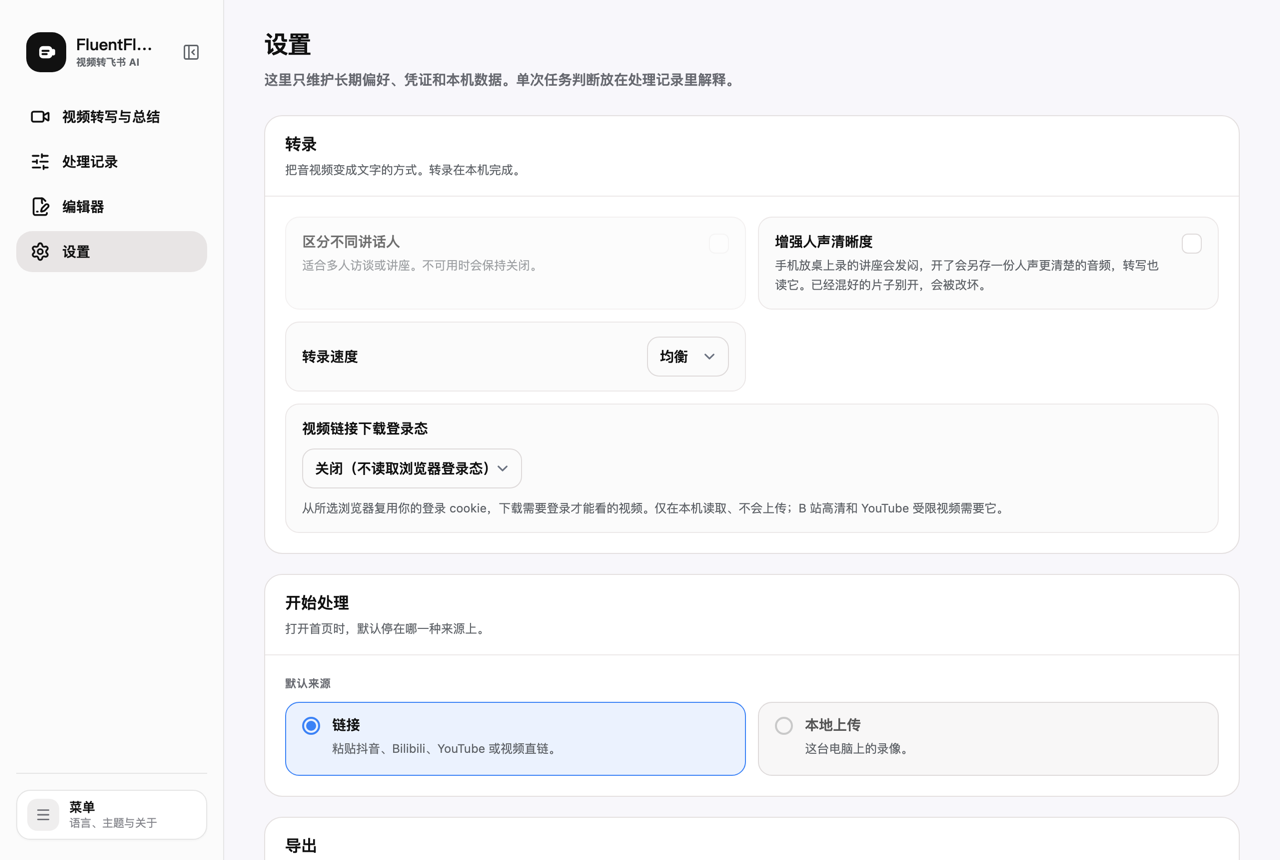
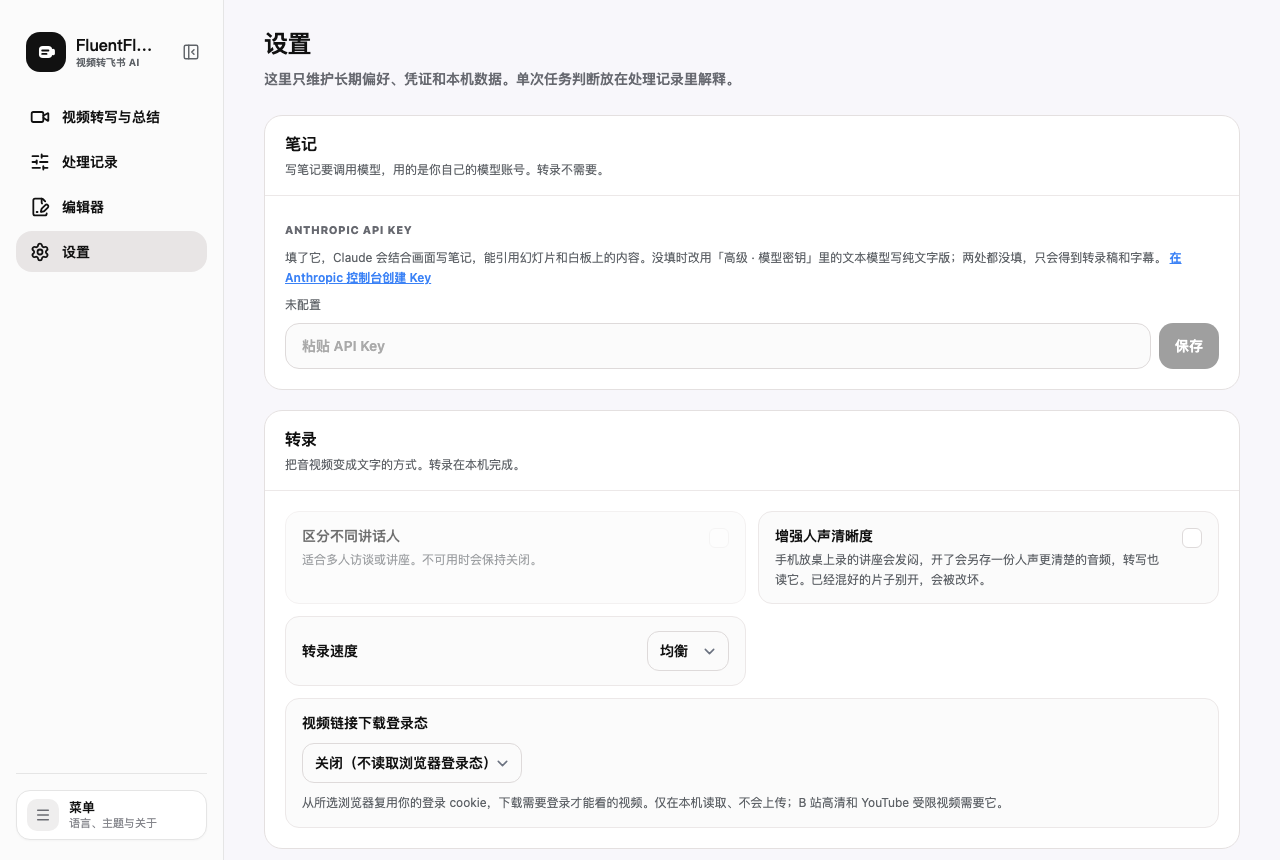
let a first-time user find the note key and get unstuck from the README

diff --git a/frontend/src/routes/settings.jsx b/frontend/src/routes/settings.jsx
@@ -1,6 +1,7 @@
 import {Section} from '../components/settingsPrimitives.jsx';
 import {
     AdvancedKeysFold,
+    AnthropicKeyField,
     AutoExportRow,
     AutoIllustrateRow,
     ClearHistoryDialog,
@@ -41,6 +42,19 @@ const Settings = () => {
     return (
         <SettingsPageShell overlays={<ClearHistoryDialog state={state}/>}>
             <Section
+                id="notes"
+                title={lang === 'zh' ? '笔记' : 'Notes'}
+                description={lang === 'zh'
+                    ? '写笔记要调用模型，用的是你自己的模型账号。转录不需要。'
+                    : 'Writing a note calls a model on your own account. Transcription does not.'}
+            >
+                <div className="grid gap-3 p-5">
+                    <AnthropicKeyField state={state}/>
+                    {!uploadWritesItsOwnNote && <AutoIllustrateRow state={state}/>}
+                </div>
+            </Section>
+
+            <Section
                 id="transcription"
                 title={lang === 'zh' ? '转录' : 'Transcription'}
                 description={lang === 'zh'
@@ -63,17 +77,6 @@ const Settings = () => {
                 <DefaultSourceRow state={state}/>
             </Section>
 
-            {!uploadWritesItsOwnNote && (
-                <Section
-                    id="notes"
-                    title={lang === 'zh' ? '笔记' : 'Notes'}
-                    description={lang === 'zh' ? 'AI 生成笔记时的偏好。' : 'Preferences for AI-generated notes.'}
-                >
-                    <div className="p-5">
-                        <AutoIllustrateRow state={state}/>
-                    </div>
-                </Section>
-            )}
 
             <Section id="export" title={lang === 'zh' ? '导出' : 'Export'} description={lang === 'zh' ? '把笔记同步到飞书云文档。' : 'Sync notes to Feishu cloud docs.'}>
                 <div className="grid gap-3 p-5 md:grid-cols-2">
@@ -90,9 +93,9 @@ const Settings = () => {
             <AdvancedKeysFold
                 description={uploadWritesItsOwnNote
                     ? (lang === 'zh'
-                        ? '文本模型和它的密钥。上传后自动生成的笔记不经过这里——那份由本机登录的 Claude 写。这里只管编辑器里手动「重生笔记」和英文素材的翻译。'
-                        : 'The text model and its key. The note an upload writes for itself does not come from here — that one is written by the Claude login on this machine. This steers the editor’s manual rewrite and the translation of English material.')
-                    : (lang === 'zh' ? '服务商、模型和 API 密钥，进阶才需要展开。普通用户可忽略。' : 'Providers, models, and API keys. Open only if you know you need it.')}
+                        ? '文本模型和它的密钥。没填 Anthropic API Key 时，上传后的笔记由这里的模型写成纯文字版；编辑器里手动「重生笔记」和英文素材的翻译也用它。'
+                        : 'The text model and its key. Without an Anthropic API Key, the note an upload writes comes from this model as text only; the editor’s manual rewrite and the translation of English material use it too.')
+                    : (lang === 'zh' ? '写笔记用的文本模型和它的密钥。默认 DeepSeek，Key 在 platform.deepseek.com 创建。' : 'The text model that writes notes, and its key. DeepSeek by default; create a key at platform.deepseek.com.')}
             >
                 <TextModelKeyRows
                     state={state}

diff --git a/frontend/src/routes/media-text.jsx b/frontend/src/routes/media-text.jsx
@@ -77,6 +77,7 @@ const MediaText = ({hosted = null}) => {
         processLocalFolder,
         locateDroppedFile,
         processLocalPaths,
+        getCredentialsStatus,
     } = useApi();
     const {loadSettings} = useSettings();
     const navigate = useNavigate();
@@ -98,6 +99,18 @@ const MediaText = ({hosted = null}) => {
     const abortRef = useRef(null);
 
     useEffect(() => { checkHealth(); }, []);
+    // A fresh install has no model key, and nothing else on this page says so:
+    // the first job would finish with a transcript and no note, and the person
+    // would only then learn there was a setting to fill in. Said once, here,
+    // before they spend a job finding out.
+    const [noNoteKey, setNoNoteKey] = useState(false);
+    useEffect(() => {
+        getCredentialsStatus?.().then((status) => {
+            if (!status || status.visual_note_available) return;
+            const textKeys = ['deepseek', 'openai', 'dashscope', 'qwen'];
+            setNoNoteKey(!textKeys.some((key) => status[`${key}_api_key_configured`]));
+        }).catch(() => {});
+    }, []);
     useEffect(() => {
         if (mode === 'subtitle') setSourceMode('upload');
     }, [mode]);
@@ -614,6 +627,15 @@ const MediaText = ({hosted = null}) => {
             <section className="mx-auto h-dvh max-w-[1280px] overflow-y-auto px-8 py-9 hide-scrollbar">
                 <input ref={fileInputRef} type="file" multiple accept="video/*,audio/*,.mp4,.mov,.avi,.mkv,.webm,.mp3,.wav,.flac,.aac,.ogg,.m4a,.wma,.opus" onChange={handleMediaInput} className="hidden"/>
                 <input ref={subtitleInputRef} type="file" accept=".srt,.vtt,.txt,.md,text/plain,text/markdown" onChange={handleSubtitleSelect} className="hidden"/>
+
+                {noNoteKey && (
+                    <div className="mb-5 flex flex-wrap items-center justify-between gap-3 rounded-[16px] border border-[#ecd9a8] bg-[#fff8e6] px-4 py-3 text-sm text-[#5c4a1a] dark:border-[#6b5a2a] dark:bg-[#2a2415] dark:text-[#f0dfb0]">
+                        <span>{lang === 'zh'
+                            ? '还没有填写模型 Key。现在处理只会得到转录稿和字幕，没有笔记。'
+                            : 'No model key yet. Jobs will produce a transcript and subtitles, but no note.'}</span>
+                        <Link to="/settings" className="shrink-0 font-extrabold underline">{lang === 'zh' ? '去设置填写' : 'Add one in Settings'}</Link>
+                    </div>
+                )}
 
                 <div className="mb-7 flex flex-wrap items-center justify-center gap-3">
                     <span className="text-sm font-bold text-[#8a8a8a] dark:text-white/40">{lang === 'zh' ? '目前支持：' : 'Supported:'}</span>

diff --git a/frontend/src/components/settingsRows.jsx b/frontend/src/components/settingsRows.jsx
@@ -401,6 +401,38 @@ export const DashscopeKeyField = ({state, description}) => {
     );
 };
 
+// The key the note written after an upload uses by default. Not in the advanced
+// fold: without it (or a text-model key) the person gets a transcript and no
+// note, so it is the one key a first-time user has to find.
+export const AnthropicKeyField = ({state}) => {
+    const {lang} = useI18n();
+    const {
+        credentialStatus, credentialConfigured, secretDraft, setSecretDraft, saveSecret,
+        secretSaving, secretFeedback, secretRetentionText, secretInputPlaceholder,
+    } = state;
+    const configured = credentialConfigured(credentialStatus, 'anthropic_api_key');
+    return (
+        <div className="space-y-2">
+            <label className={fieldLabelClass}>Anthropic API Key</label>
+            <p className="text-xs leading-relaxed text-on-surface-variant">
+                {lang === 'zh'
+                    ? '填了它，Claude 会结合画面写笔记，能引用幻灯片和白板上的内容。没填时改用「高级 · 模型密钥」里的文本模型写纯文字版；两处都没填，只会得到转录稿和字幕。'
+                    : 'With this key, Claude writes the note while looking at the video frames, so it can quote slides and whiteboards. Without it the text model under “Advanced · Model keys” writes a text-only note; with neither, you get the transcript and subtitles only.'}
+                {' '}
+                <a className="font-semibold text-primary underline" href="https://console.anthropic.com/settings/keys" target="_blank" rel="noreferrer">
+                    {lang === 'zh' ? '在 Anthropic 控制台创建 Key' : 'Create a key in the Anthropic Console'}
+                </a>
+            </p>
+            <p className="text-xs leading-relaxed text-on-surface-variant">{secretRetentionText(configured)}</p>
+            <div className="flex gap-2">
+                <input className={inputClass} placeholder={secretInputPlaceholder(configured)} type="password" value={secretDraft.anthropic_api_key || ''} onChange={e=>setSecretDraft(d=>({...d, anthropic_api_key: e.target.value}))}/>
+                <button type="button" disabled={secretSaving || !secretDraft.anthropic_api_key} onClick={()=>saveSecret('anthropic_api_key')} className={saveButtonClass}>{lang === 'zh' ? '保存' : 'Save'}</button>
+            </div>
+            <SecretFeedback feedback={secretFeedback} keyName="anthropic_api_key" lang={lang}/>
+        </div>
+    );
+};
+
 export const FeishuAppCredentialRows = ({state}) => {
     const {lang} = useI18n();
     const {credentialStatus, secretDraft, setSecretDraft, saveSecret, secretSaving, secretFeedback, secretStatusText} = state;

diff --git a/frontend/src/components/settingsPrimitives.jsx b/frontend/src/components/settingsPrimitives.jsx
@@ -34,7 +34,7 @@ export const SettingCheckbox = ({id, checked, disabled, onChange}) => (
 
 export const inputClass = 'w-full rounded-[14px] border border-[#dedada] bg-[#fbfbfb] px-4 py-3 text-sm font-semibold text-[#111111] outline-none transition placeholder:text-[#aaa] focus:border-[#111111] focus:bg-white dark:border-white/[0.12] dark:bg-white/[0.06] dark:text-white dark:placeholder:text-white/30 dark:focus:border-white/40';
 export const fieldLabelClass = 'text-[11px] font-extrabold uppercase tracking-wider text-[#676970] dark:text-white/50';
-export const saveButtonClass = 'rounded-[14px] bg-[#111111] px-4 py-3 text-sm font-extrabold text-white transition hover:bg-[#2a2a2a] active:translate-y-px disabled:cursor-not-allowed disabled:opacity-40 dark:bg-white dark:text-[#111111] dark:hover:bg-white/[0.88]';
+export const saveButtonClass = 'shrink-0 whitespace-nowrap rounded-[14px] bg-[#111111] px-4 py-3 text-sm font-extrabold text-white transition hover:bg-[#2a2a2a] active:translate-y-px disabled:cursor-not-allowed disabled:opacity-40 dark:bg-white dark:text-[#111111] dark:hover:bg-white/[0.88]';
 export const cellBase = 'rounded-[14px] border border-[#ece8e8] bg-[#fbfbfb] px-4 py-3.5 dark:border-white/[0.1] dark:bg-white/[0.02]';
 
 const radioClass = (active) => [

diff --git a/tests/test_local_system_router.py b/tests/test_local_system_router.py
@@ -49,3 +49,20 @@ def test_local_credentials_accept_only_user_owned_secrets(monkeypatch, tmp_path)
     assert response.json()["deepseek_api_key_configured"] is True
     assert "hosted_api_key_configured" not in response.json()
     assert "user-key" not in str(response.json())
+
+
+def test_credential_status_says_whether_the_visual_note_can_run(monkeypatch, tmp_path):
+    # The start page warns "you will get no note" from this flag, so it has to
+    # follow the key saved on the settings page, not only the environment.
+    monkeypatch.setenv("FLUENTFLOW_CONFIG_PATH", str(tmp_path / "config.json"))
+    monkeypatch.delenv("ANTHROPIC_API_KEY", raising=False)
+    # Pinned to the key channel: a checkout whose .env opts into the Claude Code
+    # subscription would otherwise report the note as available with no key.
+    monkeypatch.setenv("FLUENTFLOW_VISUAL_NOTE_CHANNEL", "api_key")
+    client = _client()
+
+    assert client.get("/credentials/status").json()["visual_note_available"] is False
+
+    client.post("/credentials", json={"anthropic_api_key": "sk-ant-test"})
+
+    assert client.get("/credentials/status").json()["visual_note_available"] is True

diff --git a/tests/test_visual_note_job.py b/tests/test_visual_note_job.py
@@ -503,7 +503,7 @@ def test_with_no_key_it_refuses_and_asks_for_the_key(job_store, monkeypatch, tmp
 
     assert described["eligible"] is False
     assert described["credential_configured"] is False
-    assert "ANTHROPIC_API_KEY" in described["reason"]
+    assert "Anthropic API Key" in described["reason"]
     assert "subscription" not in described["reason"]
 
 
@@ -517,7 +517,7 @@ def test_a_machine_with_claude_code_is_told_about_the_subscription_too(job_store
     described = vn.describe(TASK, job_store, api_key=None)
 
     assert described["eligible"] is False
-    assert "ANTHROPIC_API_KEY" in described["reason"]
+    assert "Anthropic API Key" in described["reason"]
     assert "FLUENTFLOW_VISUAL_NOTE_CHANNEL=subscription" in described["reason"]
 
 
@@ -527,7 +527,7 @@ def test_forcing_the_key_channel_still_names_the_key(job_store, monkeypatch):
     described = vn.describe(TASK, job_store, api_key=None)
 
     assert described["eligible"] is False
-    assert "ANTHROPIC_API_KEY" in described["reason"]
+    assert "Anthropic API Key" in described["reason"]
 
 
 def test_other_providers_keys_do_not_stand_in_for_a_claude_one(job_store, monkeypatch):

diff --git a/backend/core/claude_vision.py b/backend/core/claude_vision.py
@@ -420,16 +420,12 @@ def unavailable_reason(api_key: str | None = None) -> str | None:
     if not sdk_available():
         return (
             "本机还没有安装调用 Claude 所需的组件。在项目目录运行 "
-            "`./venv/bin/pip install -r requirements.txt` 后重启服务即可。"
+            "`.venv/bin/pip install -r requirements-local.txt` 后重启服务即可。"
         )
     if not resolve_api_key(api_key):
-        # Deliberately names only the .env path: the field is accepted by the
-        # local settings API but the settings page has no input for it yet, and
-        # sending someone to look for a box that is not there is worse than
-        # telling them the file to edit.
         return (
             "还没有配置 Anthropic 的 API Key，无法请 Claude 看画面。"
-            "在项目的 .env 里写入 ANTHROPIC_API_KEY=你的密钥，然后重启本地服务。"
+            "在设置页「笔记」一栏填入 Anthropic API Key 后重试，不必重启。"
             "没有这个 Key 时不会改用别的模型冒充「看过画面」。"
         )
     return None

diff --git a/backend/routers/local_system.py b/backend/routers/local_system.py
@@ -11,10 +11,11 @@ from backend.core.local_config import (
     LOCAL_SENSITIVE_FIELDS,
     credential_status,
     load_preferences,
+    resolve_secret,
     save_preferences,
     save_sensitive_settings,
 )
-from backend.core import local_intake_flow
+from backend.core import local_intake_flow, visual_note_channel
 from backend.core.local_limits_config import (
     max_media_duration_seconds,
     max_queue_files,
@@ -67,7 +68,16 @@ def version() -> dict[str, Any]:
 
 @router.get("/credentials/status")
 def get_credentials_status() -> dict[str, Any]:
-    return credential_status()
+    # Whether the visual note can run is not the same as whether its key is
+    # filled in: a source checkout can route it through the local Claude Code
+    # login instead. The start page warns "no note" from this, so it has to be
+    # the channel the note would actually use, not a guess from key fields.
+    return {
+        **credential_status(),
+        "visual_note_available": visual_note_channel.resolve_channel(
+            resolve_secret(None, "anthropic_api_key")
+        ).available,
+    }
 
 
 @router.post("/credentials")

diff --git a/docs/changelog.md b/docs/changelog.md
@@ -2,6 +2,11 @@
 
 ## Unreleased
 
+- 设置页最上面新增「笔记」一栏，可以直接填 Anthropic API Key，并附创建 Key 的链接。此前这个 Key 只能写进 `.env`。
+- 首页在没有任何可用的模型 Key 时显示提示条，说明这次只会得到转录稿和字幕，并给出去设置的入口。
+- Windows 安装脚本缺 Python 或 Node.js 时用 winget 直接装上，并检查 Python 不低于 3.10。
+- README 补上机器要求、不用 git 的安装方式、第一次使用、飞书导出、AI 工具接入、更新和排错。
+
 ## 0.4.0 - 2026-09-18
 
 - 转录默认用 large-v3。此前前端每次提交都发 medium，把后端的默认盖掉了，于是为 large-v3 调过的那些判断从来没有生效过。只能用 CPU 的机器仍会自动降到 medium。
